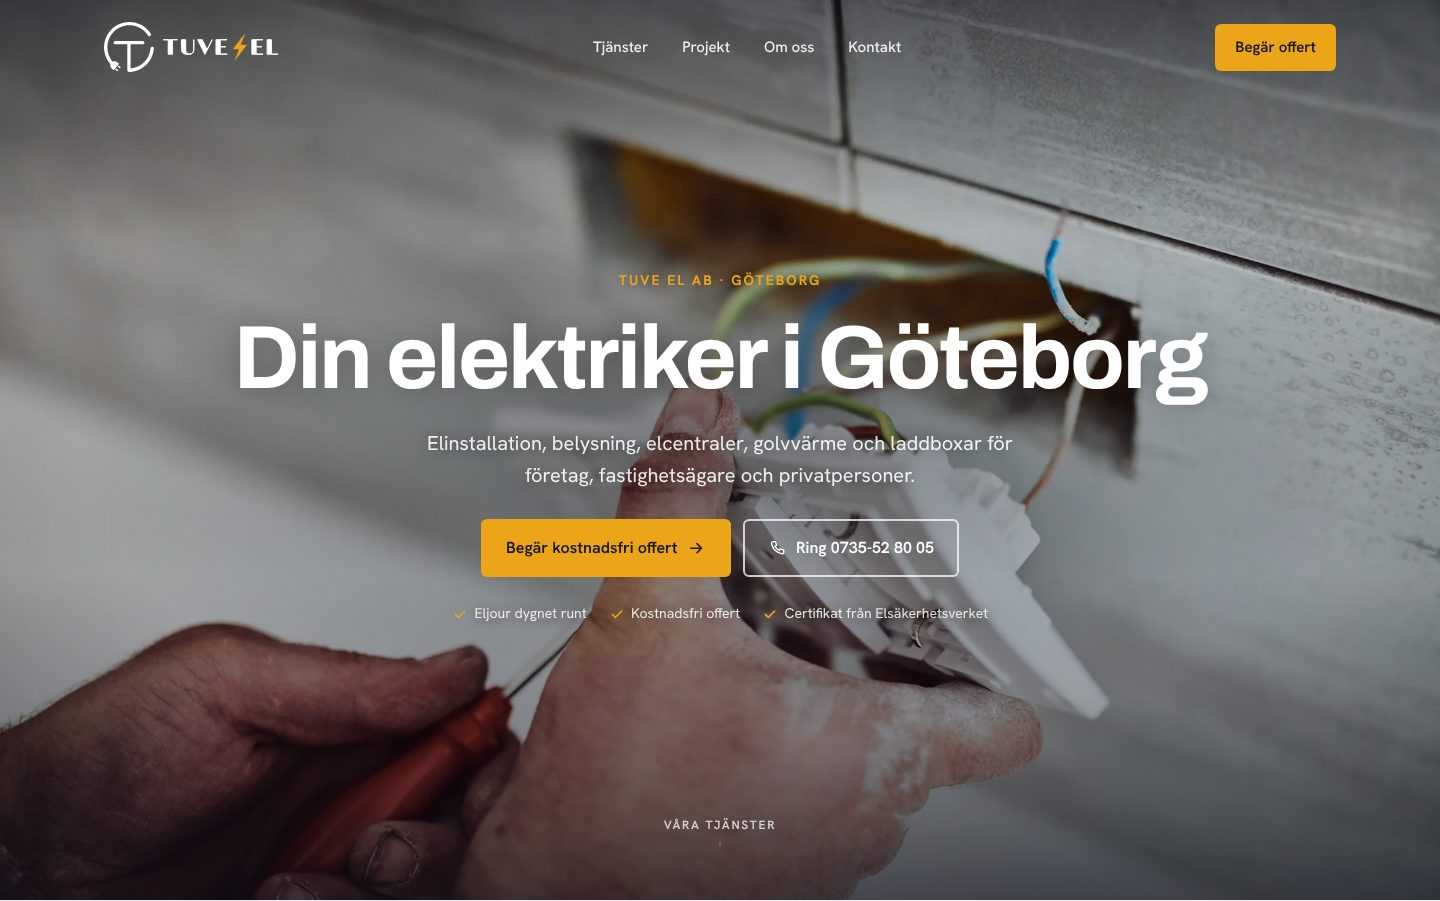
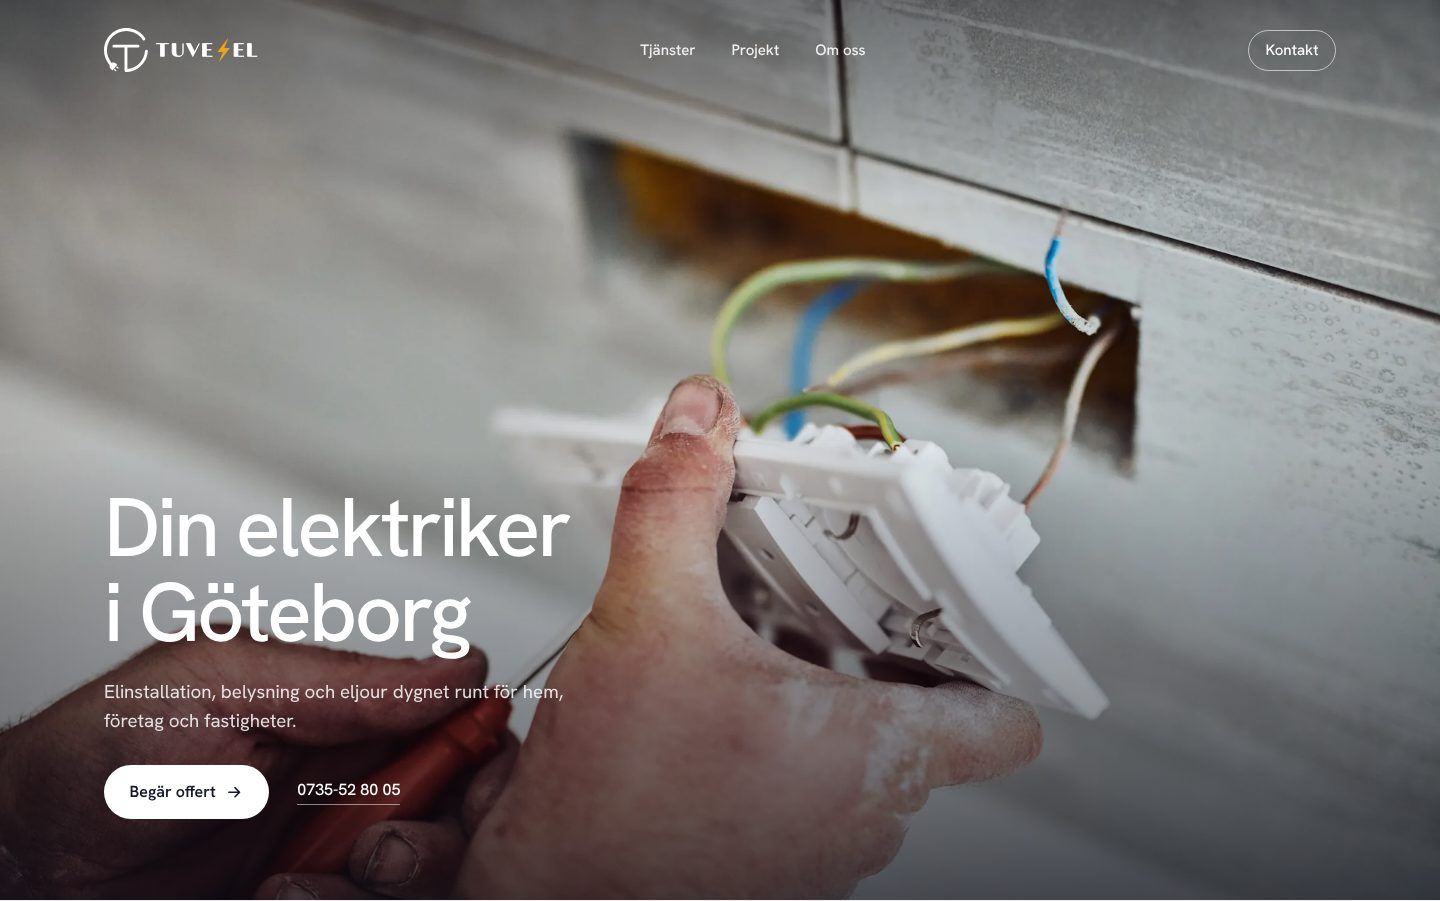
Gör hero-förslag 6 renare
Tar bort ögonbrynsrad, förtroenderad och scrollpil. Lättare rubrik, vit knapp och telefon som textlänk, text nere till vänster. Bostadsgården på kvällen som standardbild.

Claude-Session: https://claude.ai/code/session_013ZhM71rHFbCWNrEtN3dCwy

diff --git a/hero-forslag/index.html b/hero-forslag/index.html
@@ -283,39 +283,35 @@ a:focus-visible, button:focus-visible, input:focus-visible, select:focus-visible
 .h5-track span { position: absolute; left: 8px; bottom: 8px; font-family: var(--f-mono); font-size: 10.5px; background: rgba(21, 24, 41, .78); padding: 3px 7px; border-radius: 3px; }
 @keyframes h5-scroll { to { transform: translateX(-50%); } }
 
-/* ================= 6. FULLBILD ================= */
+/* ================= 6. FULLBILD (clean) ================= */
 .lbl-new { font-family: var(--f-mono); font-size: 11px; letter-spacing: .1em; text-transform: uppercase; background: var(--amber); color: var(--ink); padding: 3px 8px; border-radius: 3px; }
 .lbl-pick { flex: 1 1 100%; display: flex; flex-wrap: wrap; align-items: center; gap: 8px; margin-top: 6px; }
 .lbl-pick > span { font-size: 13px; font-weight: 600; color: var(--slate); margin-right: 4px; }
 .lbl-pick button { font: inherit; font-size: 13.5px; font-weight: 600; color: var(--navy); background: var(--white); border: 1px solid var(--mist); border-radius: 999px; padding: .45em .95em; cursor: pointer; }
 .lbl-pick button:hover { border-color: var(--navy); }
 .lbl-pick button[aria-pressed="true"] { background: var(--navy); border-color: var(--navy); color: var(--white); }
-.h6 { position: relative; isolation: isolate; overflow: hidden; color: var(--white); background: var(--ink); min-height: max(620px, 100svh); display: grid; grid-template-rows: auto 1fr auto; }
+.h6 { position: relative; isolation: isolate; overflow: hidden; color: var(--white); background: var(--ink); min-height: max(600px, 100svh); display: grid; grid-template-rows: auto 1fr; font-family: var(--f-hanken); }
 .h6-bg { position: absolute; inset: 0; z-index: -1; }
 .h6-bg img { width: 100%; height: 100%; object-fit: cover; }
-.h6-bg::after { content: ""; position: absolute; inset: 0; background:
-  radial-gradient(ellipse 62% 42% at 50% 52%, rgba(10, 12, 20, .42), rgba(10, 12, 20, 0) 72%),
-  linear-gradient(180deg, rgba(10, 12, 20, .6) 0%, rgba(10, 12, 20, .18) 26%, rgba(10, 12, 20, .22) 64%, rgba(10, 12, 20, .72) 100%); }
-.h6 .top .btn { border-radius: 6px; padding: .7em 1.2em; font-size: 15px; }
-.h6-main { align-self: center; display: grid; justify-items: center; text-align: center; gap: 22px; padding-block: 32px 48px; }
-.h6-eyebrow { margin: 0; font-size: 14px; font-weight: 700; letter-spacing: .14em; text-transform: uppercase; color: var(--amber); text-shadow: 0 1px 12px rgba(0, 0, 0, .55); }
-.h6-trust, .h6-lead { text-shadow: 0 1px 14px rgba(0, 0, 0, .45); }
-.h6 h1 { margin: 0; font-family: var(--f-archivo); font-weight: 700; font-size: clamp(2.7rem, 6.6vw, 5.6rem); line-height: 1.02; letter-spacing: -.025em; text-shadow: 0 2px 28px rgba(0, 0, 0, .25); }
-.h6-lead { margin: 0; max-width: 56ch; font-size: clamp(1.05rem, 1.4vw, 1.25rem); line-height: 1.6; color: rgba(255, 255, 255, .9); }
-.h6-cta { display: flex; flex-wrap: wrap; justify-content: center; gap: 12px; margin-top: 6px; }
-.h6 .btn { border-radius: 6px; }
-.h6-ghost { color: var(--white); border-color: rgba(255, 255, 255, .75); }
-.h6-ghost:hover { background: rgba(255, 255, 255, .12); }
-.h6-trust { list-style: none; margin: 4px 0 0; padding: 0; display: flex; flex-wrap: wrap; justify-content: center; gap: 8px 22px; font-size: 14px; color: rgba(255, 255, 255, .85); }
-.h6-trust li { display: inline-flex; align-items: center; gap: .45em; }
-.h6-trust .ico { color: var(--amber); }
-.h6-scroll { justify-self: center; display: grid; justify-items: center; gap: 8px; padding-bottom: 24px; font-size: 12px; font-weight: 600; letter-spacing: .14em; text-transform: uppercase; text-decoration: none; color: rgba(255, 255, 255, .75); }
-.h6-scroll i { width: 2px; height: 34px; background: linear-gradient(var(--amber), rgba(236, 165, 24, 0)); transform-origin: top; animation: h6-drop 2s ease-in-out infinite; }
-@keyframes h6-drop { 0% { transform: scaleY(.2); opacity: .4; } 50% { transform: scaleY(1); opacity: 1; } 100% { transform: scaleY(.2); opacity: .4; } }
+.h6-bg::after { content: ""; position: absolute; inset: 0; background: linear-gradient(180deg, rgba(10, 12, 20, .45) 0%, rgba(10, 12, 20, .08) 22%, rgba(10, 12, 20, .1) 50%, rgba(10, 12, 20, .7) 100%); }
+.h6 .top { padding-block: 28px; }
+.h6 .top .logo img { height: 44px; }
+.h6 .nav { font-size: 15px; font-weight: 500; gap: 36px; }
+.h6 .nav a:hover { text-decoration-color: var(--white); text-decoration-thickness: 1px; }
+.h6-contact { font-size: 15px; font-weight: 500; text-decoration: none; padding: .55em 1.1em; border: 1px solid rgba(255, 255, 255, .6); border-radius: 999px; }
+.h6-contact:hover { background: var(--white); color: var(--ink); }
+.h6-main { align-self: end; padding-block: 40px clamp(48px, 9vh, 96px); display: grid; gap: 22px; justify-items: start; }
+.h6 h1 { margin: 0; font-family: var(--f-hanken); font-weight: 500; font-size: clamp(2.6rem, 6vw, 5.2rem); line-height: 1.02; letter-spacing: -.035em; max-width: 14ch; }
+.h6-lead { margin: 0; max-width: 44ch; font-size: clamp(1.05rem, 1.3vw, 1.2rem); line-height: 1.55; color: rgba(255, 255, 255, .85); }
+.h6-cta { display: flex; flex-wrap: wrap; align-items: center; gap: 14px 28px; margin-top: 8px; }
+.h6-btn { display: inline-flex; align-items: center; gap: .6em; background: var(--white); color: var(--ink); text-decoration: none; font-weight: 600; font-size: 16px; padding: .95em 1.6em; border-radius: 999px; transition: background-color .2s, color .2s; }
+.h6-btn:hover { background: var(--amber); }
+.h6-tel { color: var(--white); text-decoration: none; font-weight: 500; font-variant-numeric: tabular-nums; border-bottom: 1px solid rgba(255, 255, 255, .5); padding-bottom: 2px; }
+.h6-tel:hover { border-color: var(--white); }
 @media (max-width: 640px) {
-  .h6-cta { width: 100%; }
-  .h6-cta .btn { flex: 1 1 100%; }
-  .h6-trust { font-size: 13px; }
+  .h6 .top .logo img { height: 38px; }
+  .h6-cta { flex-direction: column; align-items: flex-start; }
+  .h6-bg::after { background: linear-gradient(180deg, rgba(10, 12, 20, .45) 0%, rgba(10, 12, 20, .05) 25%, rgba(10, 12, 20, .25) 50%, rgba(10, 12, 20, .82) 100%); }
 }
 
 @media (prefers-reduced-motion: reduce) {
@@ -347,7 +343,7 @@ a:focus-visible, button:focus-visible, input:focus-visible, select:focus-visible
     <p class="intro-title">Sex förslag på startsidans hero</p>
     <p class="lead">Alla förslag bygger på texterna och bilderna från nuvarande tuveel.se och på logotypens färger, marinblå och bärnsten. Bilderna är Tuve Els egna projektfoton. Välj ett förslag, eller blanda delar från flera, så bygger jag resten av sidan i samma stil.</p>
     <ul class="jump">
-      <li><a href="#forslag-6"><span>6</span>Fullbild (nytt)</a></li>
+      <li><a href="#forslag-6"><span>6</span>Fullbild</a></li>
       <li><a href="#forslag-1"><span>1</span>Kvällsljus</a></li>
       <li><a href="#forslag-2"><span>2</span>Nordiskt ljus</a></li>
       <li><a href="#forslag-3"><span>3</span>Eljour först</a></li>
@@ -362,14 +358,14 @@ a:focus-visible, button:focus-visible, input:focus-visible, select:focus-visible
   <div class="wrap">
     <span class="lbl-no">Förslag 6</span>
     <h2>Fullbild</h2>
-    <span class="lbl-new">Nytt</span>
-    <p>En klassisk hero: en bild över hela skärmen, menyn ovanpå bilden, centrerad rubrik och två tydliga knappar. Inga effekter utöver en liten scrollpil.</p>
-    <span class="lbl-type">Archivo + Hanken Grotesk</span>
+    <span class="lbl-new">Ny version</span>
+    <p>Avskalad klassisk hero: en bild, en rubrik, en mening och en knapp. Ingen extra grafik, inga effekter.</p>
+    <span class="lbl-type">Hanken Grotesk</span>
     <div class="lbl-pick" role="group" aria-label="Byt bild i förslag 6">
       <span>Prova bild:</span>
-      <button type="button" aria-pressed="true" data-wide="../assets/img/hero/kabelschakt-solnedgang-bred-1600.webp" data-tall="../assets/img/projekt/kabelschakt-solnedgang-800.webp">Kabelschakt i solnedgång</button>
-      <button type="button" aria-pressed="false" data-wide="../assets/img/hero/bostadsgard-belysning-kvall-bred-1600.webp" data-tall="../assets/img/projekt/bostadsgard-belysning-kvall-800.webp">Bostadsgård, kväll</button>
+      <button type="button" aria-pressed="true" data-wide="../assets/img/hero/bostadsgard-belysning-kvall-bred-1600.webp" data-tall="../assets/img/projekt/bostadsgard-belysning-kvall-800.webp">Bostadsgård, kväll</button>
       <button type="button" aria-pressed="false" data-wide="../assets/img/hero/trappa-led-belysning-bred-1600.webp" data-tall="../assets/img/projekt/trappa-led-belysning-800.webp">LED-trappa</button>
+      <button type="button" aria-pressed="false" data-wide="../assets/img/hero/fasadbelysning-kvall-bred-1600.webp" data-tall="../assets/img/projekt/fasadbelysning-kvall-800.webp">Fasad, kväll</button>
       <button type="button" aria-pressed="false" data-wide="../assets/img/hero/stock-elinstallation-2400.webp" data-tall="../assets/img/tjanster/elinstallation-800.webp">Stockfoto: elinstallation</button>
     </div>
   </div>
@@ -377,36 +373,28 @@ a:focus-visible, button:focus-visible, input:focus-visible, select:focus-visible
 <section class="h6" aria-label="Förslag 6: Fullbild">
   <div class="h6-bg" aria-hidden="true">
     <picture>
-      <source id="h6-src" media="(max-width: 700px)" srcset="../assets/img/projekt/kabelschakt-solnedgang-800.webp">
-      <img id="h6-img" src="../assets/img/hero/kabelschakt-solnedgang-bred-1600.webp" alt="">
+      <source id="h6-src" media="(max-width: 700px)" srcset="../assets/img/projekt/bostadsgard-belysning-kvall-800.webp">
+      <img id="h6-img" src="../assets/img/hero/bostadsgard-belysning-kvall-bred-1600.webp" alt="">
     </picture>
   </div>
 
   <div class="wrap top">
     <a class="logo" href="#forslag-6"><img src="../assets/brand/tuve-el-liggande-vit.svg" alt="Tuve El AB"></a>
-    <nav class="nav" aria-label="Huvudmeny"><a href="#">Tjänster</a><a href="#">Projekt</a><a href="#">Om oss</a><a href="#">Kontakt</a></nav>
+    <nav class="nav" aria-label="Huvudmeny"><a href="#">Tjänster</a><a href="#">Projekt</a><a href="#">Om oss</a></nav>
     <div class="top-end">
-      <a class="btn btn-amber hide-sm" href="#">Begär offert</a>
+      <a class="h6-contact hide-sm" href="#">Kontakt</a>
       <button class="menu-btn" type="button" aria-label="Öppna meny"><svg><use href="#i-menu"/></svg></button>
     </div>
   </div>
 
   <div class="wrap h6-main">
-    <p class="h6-eyebrow">Tuve El AB · Göteborg</p>
     <h1>Din elektriker i Göteborg</h1>
-    <p class="h6-lead">Elinstallation, belysning, elcentraler, golvvärme och laddboxar för företag, fastighetsägare och privatpersoner.</p>
+    <p class="h6-lead">Elinstallation, belysning och eljour dygnet runt för hem, företag och fastigheter.</p>
     <div class="h6-cta">
-      <a class="btn btn-amber" href="#">Begär kostnadsfri offert <svg class="ico"><use href="#i-arrow"/></svg></a>
-      <a class="btn h6-ghost" href="tel:+46735528005"><svg class="ico"><use href="#i-phone"/></svg>Ring 0735-52 80 05</a>
+      <a class="h6-btn" href="#">Begär offert <svg class="ico"><use href="#i-arrow"/></svg></a>
+      <a class="h6-tel" href="tel:+46735528005">0735-52 80 05</a>
     </div>
-    <ul class="h6-trust">
-      <li><svg class="ico"><use href="#i-check"/></svg>Eljour dygnet runt</li>
-      <li><svg class="ico"><use href="#i-check"/></svg>Kostnadsfri offert</li>
-      <li><svg class="ico"><use href="#i-check"/></svg>Certifikat från Elsäkerhetsverket</li>
-    </ul>
   </div>
-
-  <a class="h6-scroll" href="#forslag-1"><span>Våra tjänster</span><i aria-hidden="true"></i></a>
 </section>
 
 <!-- ======================================================= 1 -->

diff --git a/README.md b/README.md
@@ -35,7 +35,7 @@ hero-forslag/
 | 3 | Eljour först | Konverteringsfokus: eljour och telefonnummer störst, kort offertformulär direkt i heron |
 | 4 | Bento | Rutnät med budskap, eljour, totalentreprenad, alla tjänster, behörigheter och bilder |
 | 5 | Kretsen | Typografisk; en animerad sladd kopplas in i offertknappen, filmband med projektbilder |
-| 6 | Fullbild | Klassisk hero: bild över hela skärmen, menyn ovanpå, centrerad rubrik och två knappar. Fyra bildval att prova |
+| 6 | Fullbild | Avskalad klassisk hero: bild över hela skärmen, rubrik, en mening, en knapp och telefon. Fyra bildval att prova |
 
 ## Att stämma av med kunden
 
